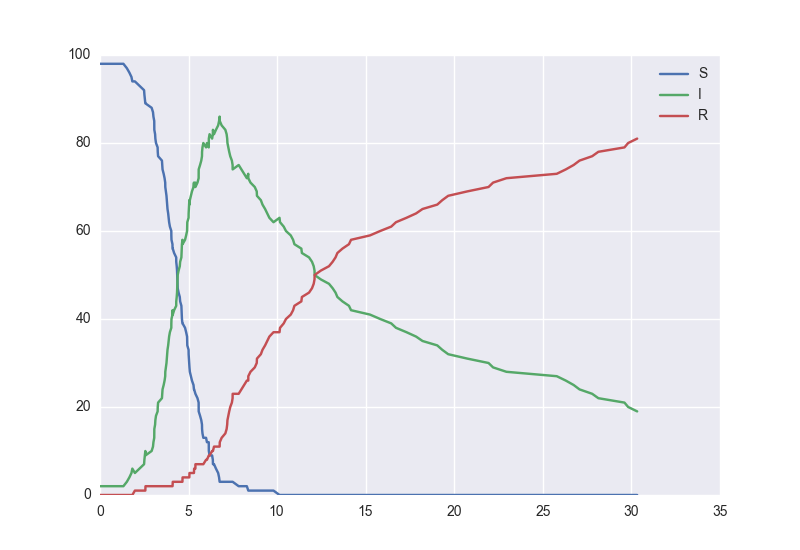
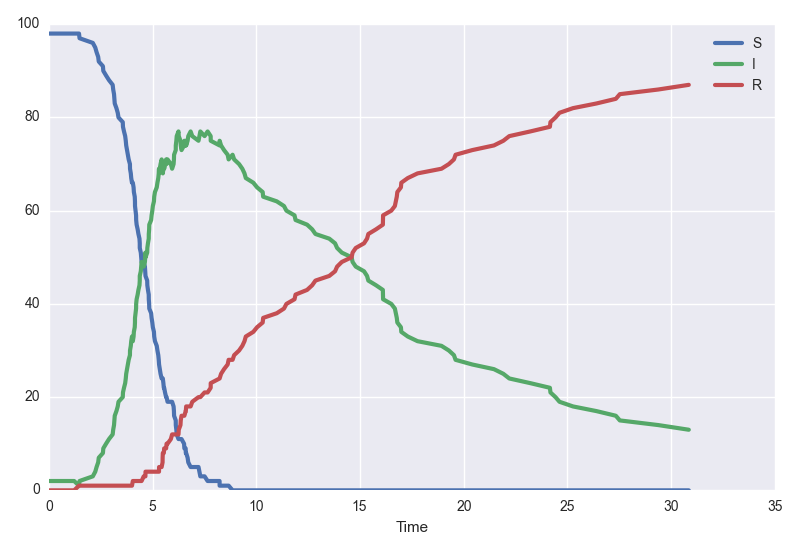
Quick-start finished; images should work there too

diff --git a/scotch/scotch.py b/scotch/scotch.py
@@ -78,6 +78,10 @@ class model(object) :
 			# Read in optional data
 			missing = list(set(model).difference(helpers.required)) # additional fields
 			self.optional = { i : model[i] for i in missing }
+
+			# It's optional, but if it isn't defined, set the default algo
+			if "default_algorithm" not in self.optional :
+				self.optional["default_algorithm"] = "gillespie"
 			
 			# Some model stuff
 			self.build()
@@ -190,63 +194,6 @@ class model(object) :
 		self.rates = []
 		for e in self.events :
 			self.rates.append(eval("lambda X, time : %s" % helpers.parse(e[0], self.states_map, self.parameters)))
-
-		# # Rewrite states as not unicode
-		# for idx,s in enumerate(self.states) :
-		# 	self.states[idx] = s.encode("utf-8")
-
-		# # Rewrite reactions as not unicode
-		# for idx1, r in enumerate(self.events) :
-		# 	self.events[idx1][0]=r[0].encode("utf-8")
-		# 	for item in r[1].keys() :
-		# 		self.events[1][idx2] = r[idx2].encode("utf-8")
-
-
-		# print "Would you like to track any reactions? (y/n)"
-		# reaction_tracker_ind = raw_input()
-
-		# if reaction_tracker_ind == "y" :
-		# 	print self
-		# 	print "Which reactions would you like to track? (enter Reaction Numbers separated by commas)"
-		# 	num_tracked_trans = raw_input().split(",")
-		# 	print num_tracked_trans
-		# 	self.tracked_trans = [self.reactions[int(x)] for x in num_tracked_trans] 
-		# 	#self.tracked_trans = self.reactions[ [int(x) for x in num_tracked_trans] ]
-		# 	print self.tracked_trans
-		# 	#generate tracked states from transitions
-		# 	self.tracked_states = []
-		# 	for t in self.tracked_trans :
-		# 		for t2 in t :
-		# 			if (t2 in self.states and t2 not in self.tracked_states):
-		# 				self.tracked_states.append(t2)
-
-
-		# 	#	for y in x :
-		# 	# 		if y not in self.states :
-		# 	# 		 	print("Error:", y ," is not a valid state")
-		# 	# 		 	self.tracked_trans = None
-		# 	# 		 	self.tracked_states = None
-		# 	# 		else :
-		# 	# 		 	if y not in self.tracked_states :
-		# 	# 		 		self.tracked_states.append(y)
-
-
-
-
-
-		# 	#build in check to make sure states are real states
-		# 	#for t in self.tracked_trans :
-
-
-		# else :
-		# 	print "Would you like to track any states? (y/n)"
-		# 	state_tracker_ind = raw_input()
-
-		# 	if state_tracker_ind == "y":
-		# 		print "Which states would you like to track? (Enter states separated by commas)"
-		# 		print self.states
-		# 		self.tracked_states = raw_input().replace(" ", "").split(",")
-
 		
 		if not silent :
 			print self
@@ -324,8 +271,10 @@ class model(object) :
 			pass
 
 		t, trace = self.simulate(T, **kwargs)
-		plt.plot(t, trace)
+		plt.plot(t, trace, lw=3)
 		plt.legend(self.states)
+		plt.xlabel("Time")
+		plt.tight_layout()
 		plt.show()
 
 
@@ -466,6 +415,8 @@ class model(object) :
 			plt.plot(t, mean[state], lw=3)
 			plt.fill_between(t, dn[state], up[state], alpha=0.4, color=C[s % 6])
 		plt.legend(self.states)
+		plt.xlabel("Time")
+		plt.tight_layout()
 		plt.show()
 
 

diff --git a/docs/quick-start/index.md b/docs/quick-start/index.md
@@ -17,9 +17,9 @@ In this quick-start, we'll implement the basic [Susceptible-Infected-Recovered](
 In the case of small populations, the continuous property of the state space can be a poor assumption, and we may prefer to simulate each individual in the population as separate entities. We'll phrase this model in the language of discrete-state stochastic processes, particularly that of continuous-time Markov chains. 
 
 
-### Using the Wizard
+### The model file
 
-_scotch_ models are defined in JSON format. For the SIR model above, it would look like this :
+_scotch_ models are defined in JSON format. For the SIR model above, with time in days, it would look like this :
 
 ```
 {
@@ -64,7 +64,9 @@ You can download this file [here](files/sir.json).
 
 
 
-### Importing the model
+### Running the model
+
+Let's boot up _scotch_ and begin simulating the system.
 
 ```python
 import scotch
@@ -87,36 +89,27 @@ r0 = 18
 gamma = 1/14
 ```
 
-
-
-
-
-
-### Simulating the model
-
-In order to get sample trajectories of your stochastic model, simply call `model.simulate(tmax)`. For example :
-```python
-t, trace = model.simulate(30)
-```
-will simulate the model and return the time values in `t`, and the state space in `trace`. You can then `plt.plot(t, trace)`. See the [documentation on scotch.simulate](documentation/simulate/) for different simulation algorithms and options.
-
-If you're just looking to inspect your system visually, you can call `model.plot`. This takes exactly the same arguments as whichever simulation algorithm you're using.
+Let's see what happens over the course of thirty days.
 
 ```python
 model.plot(30)
 ```
+![Stochastic realisation of the SIR model.](/images/sir.png)
 
-PHOTO GOES HERE
+This is one realisation of the system. Perhaps we instead want to see average dynamics. Let's get the mean of one hundred trajectories and bootstrap some confidence intervals. We'll use the tau-leaping algorithm for speed.
 
-
-
-
-
-### Sampling trace expectations and credible intervals
-
-Watch this space.
+```python
+model.plotsamples(30, algorithm="tauLeap", tau=0.25, trajectories=100, bootstrap=500)
+```
+![Mean dynamics of the stochastic SIR model.](/images/sir_mean.png)
 
 
+Both `.plot` and `.plotsamples` call `.simulate` under the hood. If you want _scotch_ to return the traces of simulations to you, simply call
+```python
+t, trace = model.simulate(30)
+```
+
+See the documentation for the complete API reference.
 
 
 
